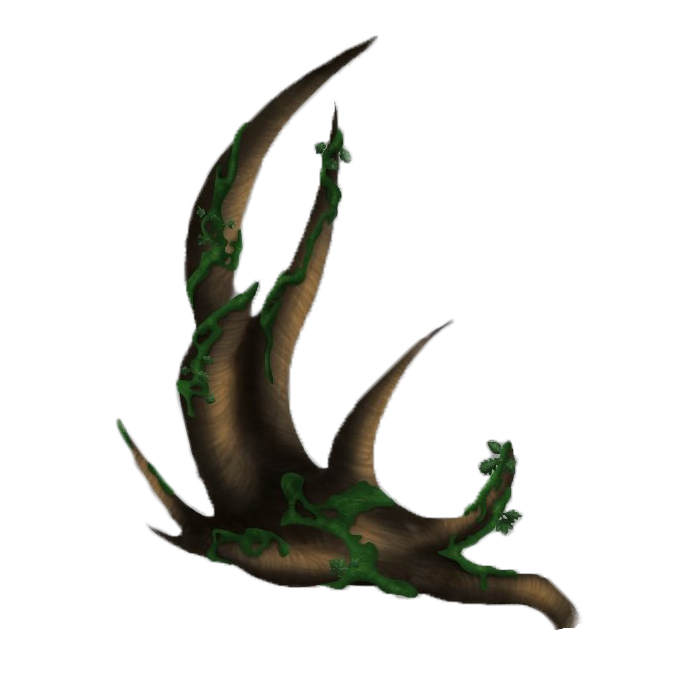
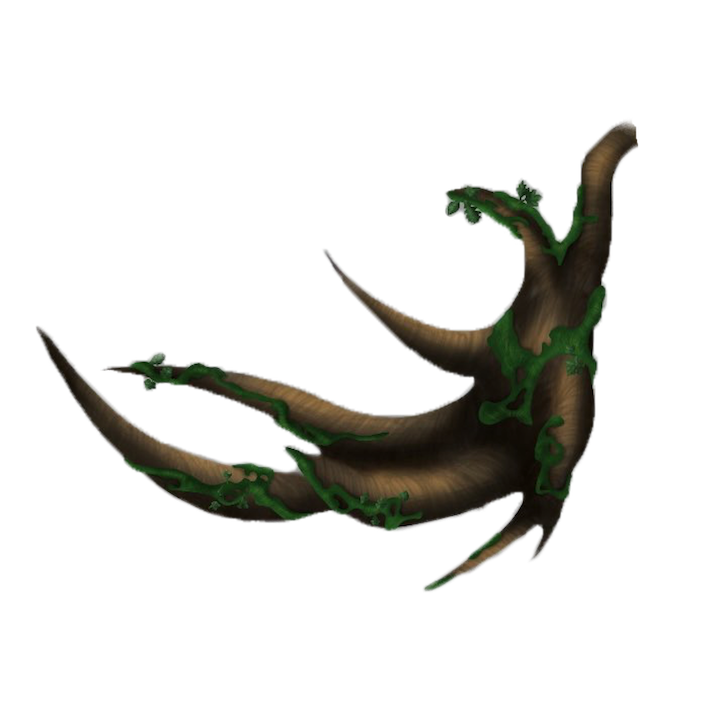
features/ second part responsive

Changed region(s): [[0.03, 0.03, 0.9, 0.9]]

diff --git a/components/SecondPart/SecondPart.js b/components/SecondPart/SecondPart.js
@@ -2,41 +2,44 @@ import React from "react";
 
 function SecondPart() {
   return (
-    <div className="flex items-center w-full h-96 bg-whiteBroke">
-      <div className="ml-16   h-80 ">
+    <div className="flex items-center w-full h-96 bg-whiteBroke bg-tree-bg bg-blend-hard-light bg-right bg-no-repeat">
+      <div className="ml-16  ">
         <p className=" tracking-[.75em] text-4xl md:text-5xl lg:text-6xl font-bold text-greeny ">
           WILDIANS
         </p>
-        <p className="tracking-[.75em]  text-4xl md:text-5xl lg:text-6xl text-wildianBlack ">
+        <p className="tracking-[.75em]  text-4xl md:text-5xl lg:text-6xl text-greeny ">
           IS A UNIQUE PROJECT
         </p>
-        <p className="tracking-[.75em]  text-4xl md:text-5xl lg:text-6xl text-wildianBlack ">
+        <p className="tracking-[.75em]  text-4xl md:text-5xl lg:text-6xl text-greeny">
           BUILT AROUND
         </p>
-        <p className=" tracking-[.75em]  text-4xl md:text-5xl lg:text-6xl font-bold text-wildianBlack ">
+        <p className=" tracking-[.75em]  text-4xl md:text-5xl lg:text-6xl font-bold  text-greeny ">
           TEZOS BLOCKCHAIN.
         </p>
         <br />
-        <p className=" tracking-[.75em]  text-4xl md:text-5xl lg:text-6xl text-wildianBlack ">
+        <p className=" tracking-[.75em]  text-4xl md:text-5xl lg:text-6xl text-greeny">
           ADOPT YOUR{" "}
-          <a className=" tracking-[.75em]  text-4xl md:text-5xl lg:text-6xl font-bold text-darkGreen ">
+          <a className=" tracking-[.75em]  text-4xl md:text-5xl lg:text-6xl font-bold text-greeny ">
             WILDLY
           </a>
           ,
         </p>
-        <p className=" tracking-[.75em]  text-4xl md:text-5xl lg:text-6xl text-wildianBlack absolute  ">
+        <p className=" tracking-[.75em]  text-4xl md:text-5xl lg:text-6xl text-greeny absolute  ">
           BE A PART OF A{" "}
-          <a className=" tracking-[.75em] text-4xl md:text-5xl lg:text-6xl font-bold text-wildianBlack  ">
+          <a className=" tracking-[.75em] text-4xl md:text-5xl lg:text-6xl font-bold text-greeny ">
             BETTER WORLD
           </a>
           .
         </p>
       </div>
-      {/*<img
-        className="w-74 h-74 relative left-48 transform -rotate-90"
-        src={"/img/antlers.png"}
-        alt="antlers"
-  />*/}
+
+      {/*
+        <img
+          className="w-74 h-74 relative left-48 transform -rotate-90"
+          src={"/img/antlers.png"}
+          alt="antlers"
+        />
+  */}
     </div>
   );
 }

diff --git a/styles/tailwind.css b/styles/tailwind.css
@@ -1384,12 +1384,20 @@ select {
   background-image: url('../public/img/section_1.png');
 }
 
+.bg-tree-bg {
+  background-image: url('../public/img/antlers-crop.png');
+}
+
 .bg-opacity-50 {
   --tw-bg-opacity: 0.5;
 }
 
 .bg-center {
   background-position: center;
+}
+
+.bg-right {
+  background-position: right;
 }
 
 .bg-repeat {
@@ -2142,10 +2150,6 @@ select {
 
 .text-6vw {
   font-size: 6vw;
-}
-
-.text-4vw {
-  font-size: 4vw;
 }
 
 .leading-none {
@@ -3369,6 +3373,10 @@ select {
   width: 6rem;
 }
 
+.w-28 {
+  width: 7rem;
+}
+
 .w-36 {
   width: 9rem;
 }
@@ -3884,6 +3892,10 @@ select {
   .lg\:hover\:text-blueGray-200:hover {
     --tw-text-opacity: 1;
     color: rgba(226, 232, 240, var(--tw-text-opacity));
+  }
+
+  .lg\:w-56 {
+    width: 14rem;
   }
 
   .lg\:w-auto {

diff --git a/components/Headers/Header.js b/components/Headers/Header.js
@@ -33,7 +33,7 @@ export default function Header() {
           <div className="text-center flex flex-col items-center mt-24 mb-6">
             <div className="text-beige text-10vw">COMING SOON</div>
             <img
-              className="w-56 h-40"
+              className="w-28 h-auto md:w-42 lg:w-56"
               src={"/img/logo_header.png"}
               alt="header_logo"
             />

diff --git a/tailwind.config.js b/tailwind.config.js
@@ -90,6 +90,7 @@ module.exports = {
       backgroundImage: {
         "banner-p": "url('../public/img/banner.png')",
         "mid-bg": "url('../public/img/section_1.png')",
+        "tree-bg": "url('../public/img/antlers-crop.png')",
       },
     },
   },
